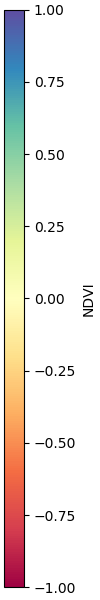
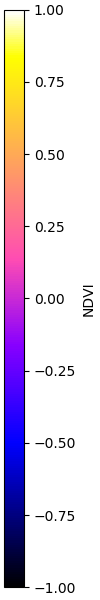
Changed colormap_dsm() to colormap_tif()
Expanded colormap_dsm() to work with other data such as non-rgb index data.
Changed indexlist param in generate_from_stack() to indexdict, now is a dict with {indexname:colormap} for each index to calculate an rgb image for

Changed region(s): [[0.03, 0.0, 0.24, 0.99]]

diff --git a/index_generator.py b/index_generator.py
@@ -146,7 +146,12 @@ def generate_from_separate(files, indexlist, outputpath, outputbase):  # functio
     return names
 
 
-def generate_from_stack(file, indexlist, outputpath, outputbase, colormap=True, units='F'):  # units can be F or C. units only used for thermal
+def generate_from_stack(file, indexdict, outputpath, outputbase, colormap=True, units='F'):  # units can be F or C. units only used for thermal
+    try:
+        indexlist = indexdict.keys()
+    except AttributeError:
+        indexlist = indexdict
+        indexdict = colormaps
     start_time = dt.now()
     print('stack analysis started at ', start_time)
     base = gdal.Open(file)
@@ -165,7 +170,7 @@ def generate_from_stack(file, indexlist, outputpath, outputbase, colormap=True, 
         del temp
 
     for index in indexlist:
-
+        print('beginning analysis on',index,'...')
         indexdata = equations[index](bands)
         if index == 'thermal':
             if units == 'F':
@@ -181,7 +186,11 @@ def generate_from_stack(file, indexlist, outputpath, outputbase, colormap=True, 
         outputname = os.path.join(outputpath, outputbase + '_' + index + '.tif')
         if colormap:
             print('beginning colormap stuff...')
-            v = cm.get_cmap(colormaps[index], 256)
+            try:
+                v = cm.get_cmap(indexdict[index], 256)
+            except ValueError:
+                v = cm.get_cmap(colormaps[index], 256)
+                print('invalid colormap. using default from colormaps')
             print('minmax:', np.min(masked), np.max(masked))
             adj, mn, mx = normalize(masked)
             c = v(adj)
@@ -221,7 +230,6 @@ def generate_from_stack(file, indexlist, outputpath, outputbase, colormap=True, 
             print('saving...')
             out.FlushCache()
 
-
         del out
         end_time = dt.now()
         print('stack analysis ended at ', end_time)
@@ -258,19 +266,22 @@ def gen_rgb(file, outputpath, outputbase):
     return outputname
 
 
-def colormap_dsm(file, outputpath, outputbase, colormap=colormaps['dsm'], units='m'):  # units can be 'ft' or 'm'
-
+def colormap_tif(file, outputpath, outputbase, dataname, colormap=colormaps['dsm'], units='m'):  # units can be 'ft' or 'm'
     base = gdal.Open(file)
     trans = base.GetGeoTransform()
     projection = base.GetProjection()
     data = base.ReadAsArray()
     data = np.array(data, dtype='float32')
     masked = np.ma.masked_where(data < -2000, data)
-    if units == 'ft':
-        masked *= 3.2808
-        label = 'Elevation (ft)'
+    if dataname == 'dsm':
+        if units == 'ft':
+            masked *= 3.2808
+            label = 'Elevation (ft)'
+        else:
+            label = 'Elevation (m)'
     else:
-        label = 'Elevation (m)'
+        label = dataname.upper()
+
     rows, cols = data.shape
     driver = gdal.GetDriverByName('GTiff')
     try:
@@ -297,8 +308,8 @@ def colormap_dsm(file, outputpath, outputbase, colormap=colormaps['dsm'], units=
     plt.close()
     cb = cbar.ColorbarBase(ax, v, norm)
     cb.set_label(label=label, rotation=90)
-    outputname = os.path.join(outputpath, outputbase + '_dsm.tif')
-    scalename = os.path.join(outputpath, outputbase + '_dsm_scale.png')
+    outputname = os.path.join(outputpath, outputbase + '_'+dataname+'.tif')
+    scalename = os.path.join(outputpath, outputbase + '_'+dataname+'_scale.png')
     fig.savefig(scalename)
     print('ending colormap stuff...')
 
@@ -314,8 +325,9 @@ def colormap_dsm(file, outputpath, outputbase, colormap=colormaps['dsm'], units=
 
 
 if __name__ == '__main__':
-    #fnames = generate_from_stack('test_ortho.tif', ['thermal'], os.getcwd(), 'test_colored', units='F')
+    fnames = generate_from_stack('test_ortho.tif', {'thermal':'CMRmap','ndvi':'gnuplot2','ndre':'Spectral'}, os.getcwd(), 'test_colored', units='C')
     #fnames2 = generate_from_stack('test_ortho.tif', ['thermal'], os.getcwd(), 'test_no_color', colormap=False)
-    rgb = gen_rgb('test_ortho.tif', os.getcwd(),'test')
+    #rgb = gen_rgb('test_ortho.tif', os.getcwd(),'test')
+    #ndre = colormap_tif('test_no_color_ndvi.tif', os.getcwd(), 'colormap_test', '', 'cubehelix')
     #dsmname = colormap_dsm('test_dem.tif', os.getcwd(), 'test1')
     #print(fnames, dsmname)
